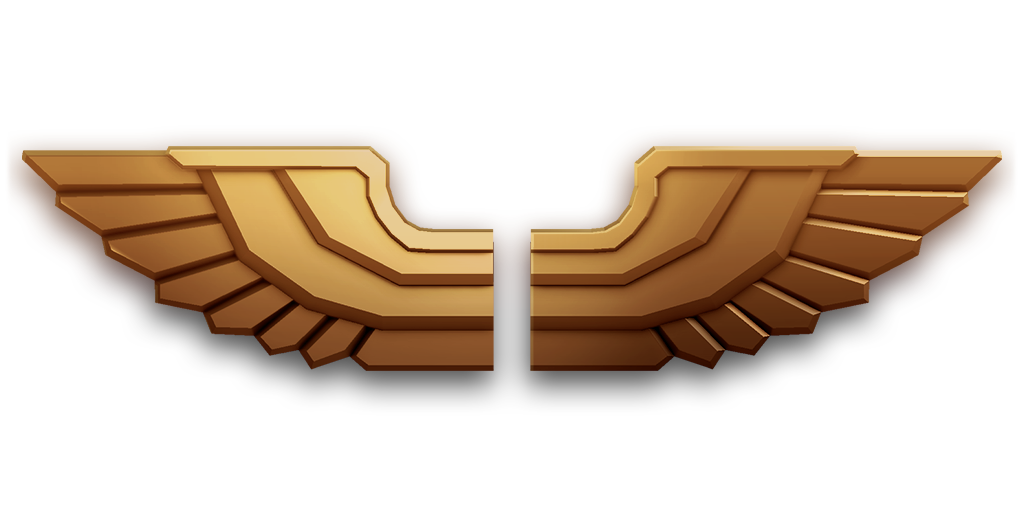
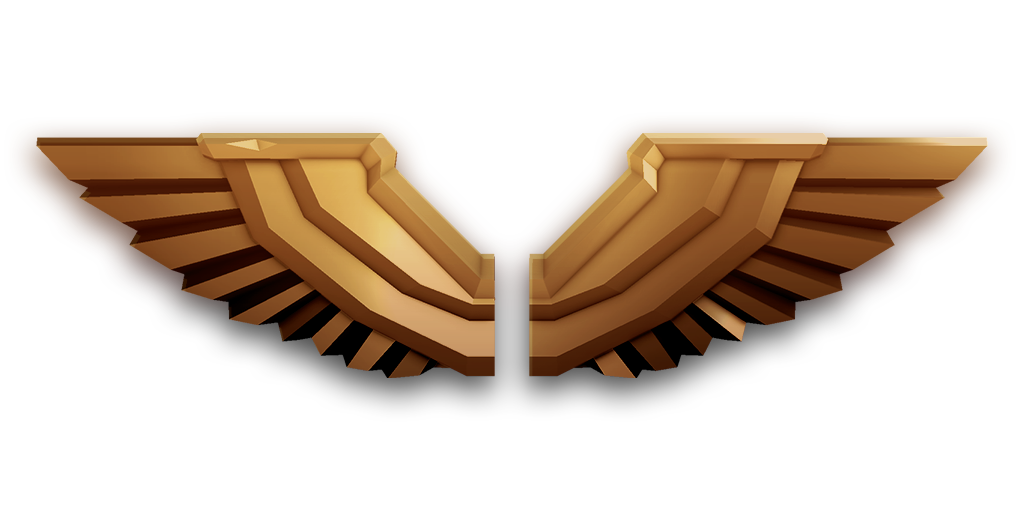
v0.0.17 ranks: new angled wings are Head of the Class; the thick wings get a new rank (proposed Dean's List); unassigned art removed
Claude-Session: https://claude.ai/code/session_01WVtVwSA278bNE4nXGcRcZg

Changed region(s): [[0.0, 0.25, 1.0, 0.7812]]

diff --git a/assets/ranks/README.md b/assets/ranks/README.md
@@ -21,10 +21,6 @@ senior chevrons with bars), then the same star designs (one to four stars).
 | 11 | Hawk Eye | Captain | I–IV | Silver stars: `hawk-eye-1.png` (one), `-2` (two), `-3` (three in a triangle), `-4` (four in a diamond) |
 | 12 | High Flyer | Major | I–IV | Gold stars: `high-flyer-1.png` (one), `-2` (two), `-3` (three in a triangle), `-4` (four in a diamond) |
 | 13 | Valedictorian | Colonel | I–III | Thin wings: `valedictorian-1.png` (bronze), `-2` (silver), `-3` (gold) |
-| 14 | Head of the Class | General | I–III | Thick wings: `head-of-the-class-1.png` (bronze), `-2` (silver), `-3` (gold) |
+| 14 | Dean's List (proposed name) | General | I–III | Thick wings: `deans-list-1.png` (bronze), `-2` (silver), `-3` (gold) |
+| 15 | Head of the Class | Field Marshal | I–III | Angled wings: `head-of-the-class-1.png` (bronze), `-2` (silver), `-3` (gold) |
 | ∞ | Honor Roll | Marshal | One insignia, plus stars | `honor-roll.png` (gold swept wings) |
-
-Not yet assigned to a rank:
-
-- `unassigned-bronze-down-chevrons-1.png` to `-3.png`: the first Blank Page art, one, two and
-  three bronze downward chevrons, replaced by the upward style.
